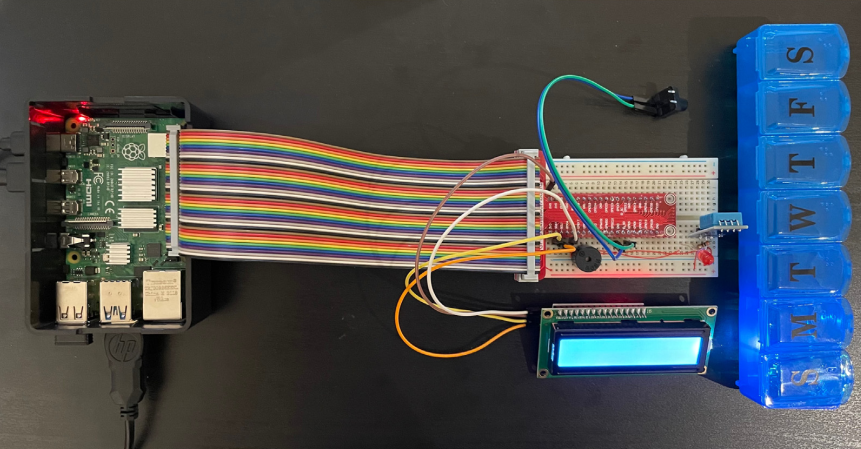
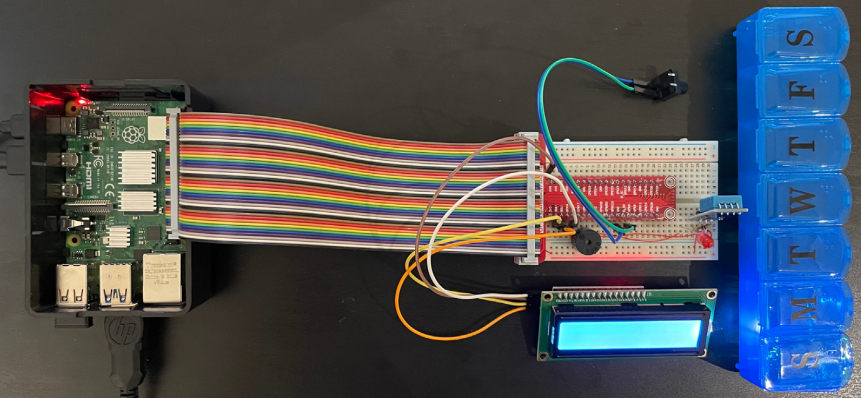
Correcciones desde cero en cap2, lo anterior no valía

diff --git a/Memoria/plantilla-latex-tfg-tfm/capitulos/capitulo2.tex b/Memoria/plantilla-latex-tfg-tfm/capitulos/capitulo2.tex
@@ -5,145 +5,59 @@ Este capítulo detalla algunos de los sistemas y soluciones más significativos 
 
 Se han revisado propuestas académicas publicadas en revistas de alto impacto y también implementaciones prácticas de código abierto, para estudiar sus propiedades técnicas, beneficios, restricciones y su uso en la creación de un dispensador automático que cuente con pantalla táctil y aplicación móvil.\\
 
-\section{A Systematic Review on Pill and Medication Dispensers from a Human-Centered Perspective}
-\label{sec:systematic_review}
+\section{Transformación digital y automatización en el ámbito sanitario}
+\label{sec:digital_as}
 
-En el artículo presentado por \cite{Gargioni2024} se realizó una revisión sistemática sobre dispensadores automáticos de medicamentos siguiendo la metodología \textit{PRISMA (Preferred Reporting Items for Systematic Reviews and Meta-Analyses}). El estudio analizó soluciones publicadas en bases de datos como \textit{Scopus} y \textit{PubMed} con el objetivo de responder a la siguiente cuestión: qué tipos de soluciones automatizadas se han propuesto en la literatura científica para mejorar la adherencia terapéutica.\\
+La transformación digital en el sector sanitario ha impulsado la integración progresiva de tecnologías inteligentes en procesos clínicos, asistenciales y farmacéuticos. La automatización, promovida por la robótica, la inteligencia artificial y los sistemas conectados, ha permitido mejorar la precisión en tareas repetitivas, reducir el error humano y optimizar la gestión de recursos sanitarios, tal y como se analiza en \cite{airobotics2023}.\\
 
-Después de un proceso de selección, como se muestra en la Figura \ref{fig:prisma_diagram}, se redujeron los 426 artículos iniciales a 56 trabajos finales. La clasificación de las soluciones estudiadas se realizó según su estado de desarrollo (ya sea prototipo, estudio conceptual o producto comercial) y se examinó desde cuatro perspectivas: la tecnología empleada, la arquitectura hardware/software, el grado de participación de los distintos actores (tales como cuidadores, pacientes y personal sanitario) y los tipos de interacción.\\
+Como se muestra en la Figura \ref{fig:ia_robotica_salud}, la integración de inteligencia artificial y robótica en el ámbito sanitario abarca múltiples áreas, desde la fabricación farmacéutica hasta los sistemas de liberación de fármacos y la atención médica.\\
 
-\begin{figure} [H]
-  \begin{center}
-    \includegraphics[width=\textwidth]{figs/prisma_diagram.png}
-  \end{center}
-  \caption{Diagrama PRISMA del proceso de selección de artículos. Adaptado de \cite{Gargioni2024}.}
-  \label{fig:prisma_diagram}
+\begin{figure}[H]
+    \centering
+    \includegraphics[width=0.85\textwidth]{figs/ia_robotica_salud.png}
+    \caption{Ámbitos de aplicación de la inteligencia artificial y la robótica en los sectores farmacéutico y médico. Adaptado de \cite{airobotics2023} bajo licencia CC BY 4.0.}
+    \label{fig:ia_robotica_salud}
 \end{figure}
 
-Un aspecto a destacar fue su perspectiva centrada en el usuario. A diferencia de otras revisiones que solo se centraban en los aspectos técnicos, este estudio también analizó variables como la aceptabilidad, la usabilidad y el contexto de uso, especialmente en pacientes con enfermedades crónicas y personas mayores.\\
+En el ámbito farmacéutico, la incorporación de sistemas automatizados para la preparación y dispensación de medicamentos constituye una de las aplicaciones más relevantes de esta evolución tecnológica. Diversos análisis recientes, entre ellos el presentado en \cite{gargioni2024}, destacan que los sistemas inteligentes permiten no solo automatizar la entrega de fármacos, sino también integrar mecanismos de supervisión, trazabilidad y análisis de datos clínicos.\\
 
-El análisis reveló que la mayoría de los sistemas incorporaban funciones como recordatorios por medio de señales acústicas o luminosas, conexión con aplicaciones para móviles y conectividad a la nube para supervisión desde lejos. No obstante, también se identificaron deficiencias relevantes en la integración con los sistemas de salud oficiales, en el manejo de terapias complejas y en la adaptación a personas con deterioro cognitivo.\\
+Paralelamente, el desarrollo del paradigma \textit{Internet of Things} (IoT) en salud ha favorecido la aparición del denominado \textit{Internet of Medical Things} (IoMT), donde dispositivos embebidos, sensores biomédicos y aplicaciones móviles interactúan de forma coordinada para proporcionar monitorización remota y asistencia distribuida. Según se expone en \cite{iot2022}, este modelo facilita la transición desde un sistema sanitario centrado exclusivamente en el entorno hospitalario hacia esquemas híbridos que combinan atención presencial y seguimiento domiciliario.\\
 
-\
+En este contexto, la convergencia entre robótica, inteligencia artificial y sistemas IoT constituye uno de los pilares fundamentales de la medicina digital contemporánea. Según se describe en \cite{aiot2022}, la aplicación de enfoques AIoT en sistemas de dispensación permite integrar conectividad, procesamiento en el borde y análisis inteligente, incrementando la seguridad y eficiencia en la administración terapéutica. Estas bases tecnológicas establecen el marco conceptual para el desarrollo de dispositivos inteligentes de asistencia farmacológica como el propuesto en este proyecto.\\
 
-Las ventajas de este estudio fueron las siguientes:
+\section{Sistemas inteligentes de dispensación y adherencia terapéutica}
+\label{sec:dispensacion_adherencia}
 
-\begin{itemize}
-    \item Aplicación rigurosa de metodología PRISMA.
-    \item Clasificación clara de las soluciones según su estado de desarrollo.
-    \item Análisis conjunto de arquitectura técnica e interacción usuario-sistema.
-    \item Enfoque centrado en la aceptabilidad y usabilidad.\\
-\end{itemize}
+En el tratamiento de personas de edad avanzada y pacientes crónicos, la adhesión a las terapias es uno de los retos más importantes. El riesgo de cometer errores al administrar medicamentos aumenta debido a la complejidad de los regímenes farmacológicos y a la presencia simultánea de diversas enfermedades. Esto ha fomentado el desarrollo de sistemas inteligentes para la dispensación.\\
 
-Las desventajas identificadas en las soluciones revisadas fueron las siguientes:
+Las revisiones recientes, como la presentada en \cite{gargioni2024}, evidencian que la mayoría de los dispensadores actuales incorporan programación horaria y sistemas de alerta, aunque todavía existen limitaciones en términos de usabilidad avanzada, integración con aplicaciones móviles y personalización del seguimiento clínico.\\
 
-\begin{itemize}
-    \item Falta de estandarización en la medición de la adherencia terapéutica.
-    \item Escasa integración con sistemas sanitarios nacionales.
-    \item Coste elevado en varias propuestas comerciales.
-    \item Limitada consideración de la experiencia de usuario en población mayor.
-\end{itemize}
+En respuesta a estas limitaciones, diversas propuestas han evolucionado hacia arquitecturas conectadas basadas en IoT y AIoT. Por un lado, enfoques modulares como el descrito en \cite{alduaij2024} permiten transformar pastilleros convencionales en sistemas inteligentes mediante la incorporación de módulos de procesamiento y comunicación, favoreciendo la supervisión remota y la extensibilidad del sistema. Por otro, soluciones más avanzadas integran procesamiento en el borde y análisis inteligente de datos, como se expone en \cite{aiot2022}, incrementando el grado de automatización y control terapéutico (véase Figura \ref{fig:arquitectura_dispensador}).\\
 
-\
-
-\section{mPillBox: An Open Framework for a Smarter Pillbox}
-\label{sec:mPillBox}
-
-En el trabajo presentado por \cite{alduaij2024} se introduce \textit{mPillBox}, un \textit{framework} abierto diseñado para transformar un pastillero convencional en un sistema inteligente mediante la incorporación de tecnologías \textit{IoT}. Esta propuesta, en comparación con otros sistemas que sugerían una reestructuración total del aparato físico, se fundamentó en una arquitectura modular, la cual posibilitó incorporar funcionalidades de avanzada a estructuras ya existentes.\\
-
-El sistema se puso en marcha sobre una \textit{Raspberry Pi 4 Model B}, la cual actuó como unidad de coordinación y procesamiento central. La arquitectura incorporó módulos de comunicación para enlazarse con dispositivos externos y aplicaciones móviles, además de sensores ambientales para monitorizar situaciones como la humedad y la temperatura. Además incluyó funciones como la programación de horarios para la medicación, la verificación de fechas de vencimiento y el chequeo automático de posibles interacciones entre medicamentos.\\
-
-Como se puede observar en la Figura \ref{fig:mpillbox}, el prototipo integró físicamente la unidad de procesamiento, el módulo de visualización LCD y los elementos de conexión necesarios para la comunicación con los compartimentos del pastillero, conformando una arquitectura modular basada en componentes de bajo coste.\\
-
-\begin{figure} [H]
-  \begin{center}
-    \includegraphics[width=\textwidth]{figs/mPillBox.png}
-  \end{center}
-  \caption{Prototipo del sistema mPillBox basado en Raspberry Pi y módulos \textit{IoT}. Adaptado de \cite{alduaij2024}.}
-  \label{fig:mpillbox}
+\begin{figure}[H]
+    \centering
+    \includegraphics[width=0.85\textwidth]{figs/mPillBox.png}
+    \caption{Arquitectura conceptual de un sistema inteligente de dispensación basado en IoT. Adaptado de \cite{alduaij2024}.}
+    \label{fig:arquitectura_dispensador}
 \end{figure}
 
-Una de las características distintivas del sistema fue su perspectiva amplia y abierta. \textit{mPillBox} se diseñó como una plataforma adaptable que simplificó la incorporación de nuevos módulos y servicios, lo cual posibilitó su ajuste a diversas necesidades y contextos. Asimismo, no estaba directamente vinculado con instalaciones hospitalarias ni con servicios de suscripción, lo que disminuyó los costos y mejoró su accesibilidad.\\
 
-El sistema también contempló el envío de alertas mediante dispositivos \textit{IoT} conectados, como notificaciones visuales o sonoras en el entorno doméstico, así como la sincronización con una aplicación móvil para la supervisión remota del tratamiento.\\
+De igual manera, algunos trabajos incorporan mecanisos de seguridad adicionales, como autenticación biométrica basada en redes neuronales profundas \cite{intelligent2023}, con el objetivo de reducir accesos no autorizados y mejorar la fiabilidad del proceso de dispensación.\\
 
-\
+Con el fin de comparar las principales características técnicas de las propuestas analizadas, la Tabla \ref{tab:comparativa_dispensadores} resume los elementos más relevantes en términos de conectividad, integración de inteligencia artificial, mecanismos de autenticación y supervisión remota.
 
-\
+\begin{table}[H]
+\centering
+\caption{Comparativa de sistemas inteligentes de dispensación analizados}
+\label{tab:comparativa_dispensadores}
+\begin{tabular}{|l|c|c|c|c|}
+\hline
+\textbf{Trabajo} & \textbf{IoT} & \textbf{IA} & \textbf{Autenticación} & \textbf{Supervisión} \\ \hline
+Gargioni et al. (2024) & Parcial & No & No & Sí \\ \hline
+AlDuaij (2024) & Sí & No & No & Sí \\ \hline
+Sivakumar et al. (2023) & Sí & Parcial (DNN) & Huella & Sí \\ \hline
+Zhang et al. (2022) & Sí & Sí & Sí & Sí \\ \hline
+\end{tabular}
+\end{table}
 
-\
-
-\
-
-\
-
-Las ventajas de este sistema fueron las siguientes:
-
-\begin{itemize}
-    \item Arquitectura \textit{open-source} y modular.
-    \item Bajo coste en comparación con soluciones comerciales cerradas.
-    \item Flexibilidad para integrar sensores adicionales.
-    \item Incorporación de verificación de interacciones entre medicamentos.
-    \item Independencia de infraestructuras hospitalarias externas.\\
-\end{itemize}
-
-Las desventajas de este sistema fueron las siguientes:
-
-\begin{itemize}
-    \item Requería conocimientos técnicos para su instalación y mantenimiento.
-    \item No incorporó un mecanismo avanzado de dispensación física automática.
-    \item Validación limitada a entorno experimental.
-    \item Dependencia de conectividad para algunas funcionalidades \textit{IoT}.
-\end{itemize}
-
-\
-
-\section{Intelligent and Assisted Medicine Dispensing Machine}
-\label{sec:intelligent_and_assisted}
-
-En el trabajo presentado por \cite{intelligent2023} se creó y diseñó una máquina dispensadora de medicamentos inteligente, enfocada en pacientes con problemas para manejar tratamientos complejos y personas mayores. La finalidad del sistema consistió en optimizar la adherencia terapéutica a través de la automatización de la dispensación y de la inclusión de mecanismos extra de seguridad.\\
-
-La arquitectura del dispositivo se basó en un microcontrolador encargado de gestionar los compartimentos de medicación y controlar el mecanismo de liberación mediante actuadores eléctricos. El sistema permitió programar horarios específicos para cada toma, activando la dispensación de forma automática en los intervalos establecidos.\\
-
-\begin{figure} [H]
-  \begin{center}
-    \includegraphics[width=\textwidth]{figs/mdm.png}
-  \end{center}
-  \caption{Arquitectura propuesta del sistema. Adaptado de \cite{intelligent2023}.}
-  \label{fig:mdm_architecture}
-\end{figure}
-
-Como se muestra en la Figura \ref{fig:mdm_architecture}, el sistema integra los distintos módulos de control, sensores y elementos de comunicación que permiten coordinar la autenticación del usuario, la apertura de los compartimentos y la monitorización remota mediante el sistema central.\\
-
-Un sistema de autenticación biométrica a través de un sensor de huella dactilar fue uno de los componentes distintivos del proyecto. Al permitir la validación de la identidad del usuario antes de dar el visto bueno a la dispensación, este mecanismo disminuyó el peligro de que se cometieran errores en la administración del fármaco o de que se accediera indebidamente.\\
-
-Además, el sistema incorporó conectividad IoT para el envío de notificaciones y alertas a familiares o cuidadores en caso de omisión de la toma. La interfaz de usuario se diseñó con una pantalla LCD y botones físicos, buscando simplicidad y facilidad de uso para población de edad avanzada. Por último, el prototipo fue validado experimentalmente en un entorno controlado, demostrando la viabilidad técnica de la arquitectura propuesta.\\
-
-Las ventajas de este sistema son las siguientes:
-
-\begin{itemize}
-    \item Integración de autenticación biométrica mediante huella dactilar.
-    \item Reducción del riesgo de uso indebido del dispositivo.
-    \item Automatización de la dispensación en horarios programados.
-    \item Incorporación de conectividad IoT para monitorización remota.
-    \item Enfoque orientado a población mayor.
-\end{itemize}
-
-Las desventajas de este sistema son las siguientes:
-
-\begin{itemize}
-    \item Incremento del coste debido a la incorporación de sensores biométricos.
-    \item Mayor complejidad técnica respecto a soluciones básicas.
-    \item Dependencia de conectividad para funcionalidades remotas.
-    \item Validación limitada a entorno experimental.
-\end{itemize}
- 
-\section{Metodología}
-\label{sec:metodologia}
-
-Qué paradigma de desarrollo software has seguido para alcanzar tus objetivos.
-
-\section{Plan de trabajo}
-\label{sec:plantrabajo}
-
-Qué agenda has seguido. Si has ido manteniendo reuniones semanales, cumplimentando objetivos parciales, si has ido afinando poco a poco un producto final completo, etc.
+Como puede observarse, aunque la mayoría de los sistemas actuales incorporan conectividad y supervisión remota, existen diferencias significativas en el grado de integración de inteligencia artificial, automatización y mecanismos de seguridad. Este evidencia que todavía persisten oportunidades de mejora en la integración equilibrada de usabilidad, accesibilidad, monitorización biomédica y bajo coste, elementos clave en el diseño del sistema propuesto en este trabajo.\\
